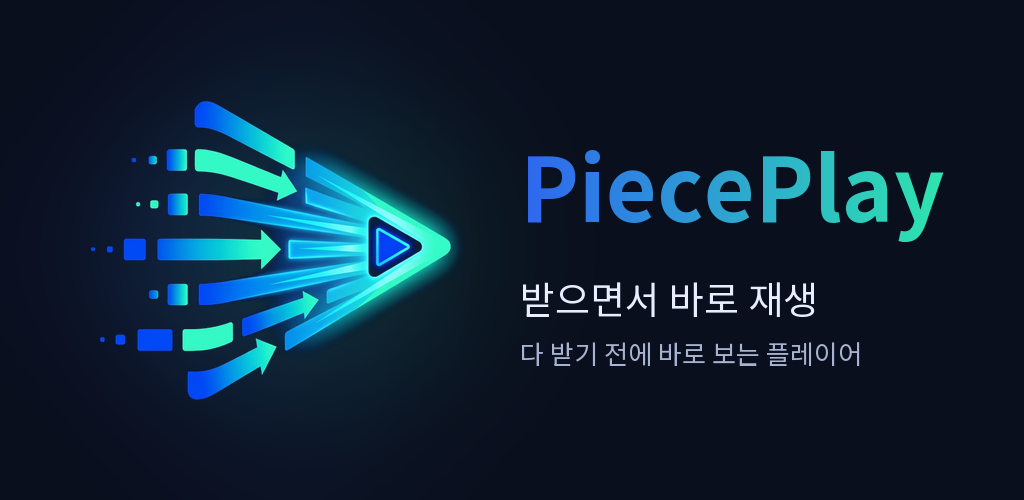
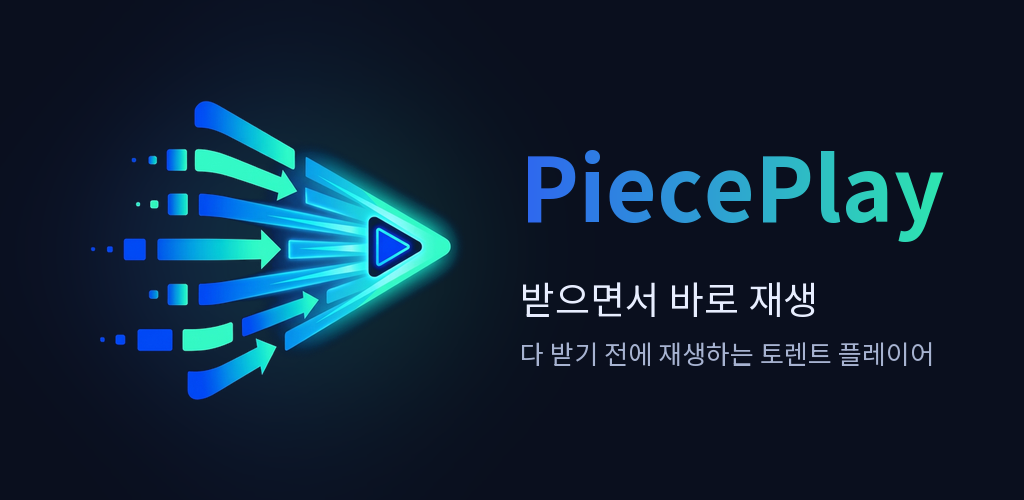
스토어 그래픽: 한국 캡션 휴대전화 스크린샷, 7·10인치 태블릿 스크린샷, 그래픽 이미지 문구 (Refs #119)
- 휴대전화 6장을 marketing/aso/ko-KR.md 6절 캡션으로 다시 생성(4_Play_Store_Screenshots/ko-KR/)
- 7인치(5_Tablet_7in/)·10인치(6_Tablet_10in/) 태블릿 각 6장: 태블릿 AVD에서 main 디버그 빌드 실제 캡처
- 그래픽 이미지 보조 문구 수정, 생성 스크립트 screens.py로 통합
- README에 Play 슬롯별 업로드 파일과 공식 규격 정리

Changed region(s): [[0.625, 0.69, 0.9062, 0.75]]

diff --git a/launch/store-assets/tools/screens.py b/launch/store-assets/tools/screens.py
@@ -1,0 +1,151 @@
+"""Play 스토어 스크린샷 생성 (휴대전화·7인치·10인치 태블릿).
+
+사용: python screens.py <store-assets 폴더> [phone|tab7|tab10 ...]
+필요: Pillow, Windows Noto Sans KR 가변 글꼴(NotoSansKR-VF.ttf)
+
+원본 캡처(raw/)를 브랜드 틀(배경 #0A0F1E, 그라데이션 #2F66F0 -> #2EE6B0)에 넣고
+위에 제목·보조 문구를 얹는다. 캔버스는 9:16 또는 16:9(Play 대화면 규칙)이다.
+문구 기준: marketing/aso/ko-KR.md 6절.
+"""
+import os
+import sys
+
+from PIL import Image, ImageDraw, ImageFilter, ImageFont
+
+BG = (0x0A, 0x0F, 0x1E)
+C1 = (0x2F, 0x66, 0xF0)
+C2 = (0x2E, 0xE6, 0xB0)
+ON = (0xE8, 0xEE, 0xFF)
+SUB = (0xA7, 0xB3, 0xD1)
+OUTL = (0x2A, 0x37, 0x57)
+NOTO = 'C:/Windows/Fonts/NotoSansKR-VF.ttf'
+
+# (제목, 보조) — 화면 키별 캡션
+CAPTIONS = {
+    'main': ('링크를 넣으면 바로 재생', '마그넷 링크나 토렌트 파일 주소만 붙여넣으세요'),
+    'preparing': ('앞부분부터 먼저 받아요', '다 받을 때까지 기다리지 않아도 돼요'),
+    'player_noads': ('재생 중에는 광고 없이', '받은 조각과 재생 위치를 한눈에'),
+    'player_seek': ('이동하면 그 위치부터 받아요', '10초 이동 · 확대 · 축소'),
+    'playlist': ('보던 곳부터 이어보기', '최근 50개를 기기 안에 암호화해 보관'),
+    'stored': ('업로드 없이, 기록은 기기 안에', '받은 파일은 형식별로 보고 바로 삭제'),
+}
+
+# 대상별: 출력 폴더, 원본 폴더, [(출력 파일, 원본 파일, 캡션 키, 캔버스 W, H)]
+TARGETS = {
+    'phone': ('4_Play_Store_Screenshots/ko-KR', '4_Play_Store_Screenshots/raw', [
+        ('01_main.png', 'main.png', 'main', 1080, 1920),
+        ('02_preparing.png', 'preparing.png', 'preparing', 1080, 1920),
+        ('03_player_landscape.png', 'player-landscape.png', 'player_noads', 1920, 1080),
+        ('04_player.png', 'player.png', 'player_seek', 1080, 1920),
+        ('05_playlist.png', 'playlist.png', 'playlist', 1080, 1920),
+        ('06_stored_files.png', 'stored-files.png', 'stored', 1080, 1920),
+    ]),
+    'tab7': ('5_Tablet_7in', '5_Tablet_7in/raw', [
+        ('01_main.png', 'main.png', 'main', 1080, 1920),
+        ('02_preparing.png', 'preparing.png', 'preparing', 1080, 1920),
+        ('03_player_landscape.png', 'player-landscape.png', 'player_noads', 1920, 1080),
+        ('04_player.png', 'player.png', 'player_seek', 1080, 1920),
+        ('05_playlist.png', 'playlist.png', 'playlist', 1080, 1920),
+        ('06_stored_files.png', 'stored-files.png', 'stored', 1080, 1920),
+    ]),
+    'tab10': ('6_Tablet_10in', '6_Tablet_10in/raw', [
+        ('01_main.png', 'main.png', 'main', 2560, 1440),
+        ('02_preparing.png', 'preparing.png', 'preparing', 2560, 1440),
+        ('03_player.png', 'player.png', 'player_noads', 2560, 1440),
+        ('04_player_seek.png', 'player-seek.png', 'player_seek', 2560, 1440),
+        ('05_playlist.png', 'playlist.png', 'playlist', 2560, 1440),
+        ('06_stored_files.png', 'stored-files.png', 'stored', 2560, 1440),
+    ]),
+}
+
+
+def font(size, weight):
+    f = ImageFont.truetype(NOTO, size)
+    f.set_variation_by_axes([weight])
+    return f
+
+
+def background(W, H):
+    img = Image.new('RGB', (W, H), BG)
+    glow = Image.new('RGBA', (W, H), (0, 0, 0, 0))
+    g = ImageDraw.Draw(glow)
+    g.ellipse((-W * 0.3, -H * 0.15, W * 0.7, H * 0.35), fill=C1 + (80,))
+    g.ellipse((W * 0.5, -H * 0.1, W * 1.3, H * 0.3), fill=C2 + (45,))
+    glow = glow.filter(ImageFilter.GaussianBlur(min(W, H) // 6))
+    img.paste(glow, (0, 0), glow)
+    return img
+
+
+def gradient_bar(d, x, y, w, h):
+    for i in range(w):
+        t = i / (w - 1)
+        d.line([(x + i, y), (x + i, y + h)], fill=tuple(int(C1[k] + (C2[k] - C1[k]) * t) for k in range(3)))
+
+
+def fitted_font(d, text, size, weight, max_w):
+    while True:
+        f = font(size, weight)
+        b = d.textbbox((0, 0), text, font=f)
+        if b[2] - b[0] <= max_w or size <= 12:
+            return f
+        size -= 2
+
+
+def centered(d, W, y, text, size, weight, fill, max_w):
+    f = fitted_font(d, text, size, weight, max_w)
+    b = d.textbbox((0, 0), text, font=f)
+    d.text(((W - (b[2] - b[0])) // 2 - b[0], y), text, font=f, fill=fill)
+
+
+def paste_shot(img, src, box, radius):
+    x, y, w, h = box
+    s = Image.open(src).convert('RGB').resize((w, h), Image.LANCZOS)
+    mask = Image.new('L', (w, h), 0)
+    ImageDraw.Draw(mask).rounded_rectangle((0, 0, w - 1, h - 1), radius, fill=255)
+    shadow = Image.new('RGBA', img.size, (0, 0, 0, 0))
+    ImageDraw.Draw(shadow).rounded_rectangle((x - 6, y + 10, x + w + 6, y + h + 22), radius + 6, fill=(0, 0, 0, 150))
+    shadow = shadow.filter(ImageFilter.GaussianBlur(18))
+    img.paste(shadow, (0, 0), shadow)
+    img.paste(s, (x, y), mask)
+    ImageDraw.Draw(img).rounded_rectangle((x - 2, y - 2, x + w + 1, y + h + 1), radius + 2, outline=OUTL, width=3)
+
+
+def compose(src, out, W, H, title, sub):
+    k = min(W, H) / 1080
+    portrait = H > W
+    img = background(W, H)
+    d = ImageDraw.Draw(img)
+    max_w = W - int(120 * k)
+    if portrait:
+        ty, ts, sy, ss, by, top, side, bottom = 92, 68, 192, 36, 262, 320, 48, 40
+    else:
+        ty, ts, sy, ss, by, top, side, bottom = 56, 60, 146, 32, 206, 268, 120, 60
+    centered(d, W, int(ty * k), title, int(ts * k), 700, ON, max_w)
+    centered(d, W, int(sy * k), sub, int(ss * k), 400, SUB, max_w)
+    gradient_bar(d, W // 2 - int(60 * k), int(by * k), int(120 * k), max(4, int(6 * k)))
+    sw, sh = Image.open(src).size
+    box_w, box_h = W - 2 * int(side * k), H - int(top * k) - int(bottom * k)
+    scale = min(box_w / sw, box_h / sh)
+    w, h = round(sw * scale), round(sh * scale)
+    paste_shot(img, src, ((W - w) // 2, int(top * k), w, h), int((44 if portrait else 36) * k))
+    img.save(out)
+
+
+def main():
+    root = sys.argv[1]
+    names = sys.argv[2:] or list(TARGETS)
+    for name in names:
+        out_dir, raw_dir, items = TARGETS[name]
+        os.makedirs(os.path.join(root, out_dir), exist_ok=True)
+        for out, raw, key, W, H in items:
+            src = os.path.join(root, raw_dir, raw)
+            if not os.path.exists(src):
+                print('skip (no raw):', src)
+                continue
+            title, sub = CAPTIONS[key]
+            compose(src, os.path.join(root, out_dir, out), W, H, title, sub)
+            print('wrote', out_dir + '/' + out, W, 'x', H)
+
+
+if __name__ == '__main__':
+    main()

diff --git a/launch/store-assets/tools/feature.py b/launch/store-assets/tools/feature.py
@@ -30,5 +30,5 @@ for i in range(tw):
     ImageDraw.Draw(grad).line([(i,0),(i,th+30)],fill=col)
 ty=150; img.paste(grad,(x,ty),mask)
 d.text((x,ty+th+34),'받으면서 바로 재생',font=fr,fill=(0xE8,0xEE,0xFF))
-d.text((x,ty+th+96),'다 받기 전에 바로 보는 플레이어',font=fs,fill=(0xA7,0xB3,0xD1))
+d.text((x,ty+th+96),'다 받기 전에 재생하는 토렌트 플레이어',font=fs,fill=(0xA7,0xB3,0xD1))
 img.save(out)

diff --git a/launch/store-assets/README.md b/launch/store-assets/README.md
@@ -1,19 +1,55 @@
 # 스토어 자료
 
-디자인 리뉴얼 5단계(#49)에서 새 다크 브랜드 테마(배경 `#0A0F1E`, 그라데이션 `#2F66F0 → #2EE6B0`)로 교체했다.
+디자인 리뉴얼 5단계(#49)에서 다크 브랜드 테마(배경 `#0A0F1E`, 그라데이션 `#2F66F0 → #2EE6B0`)로 바꿨고, 한국 등록정보(#119)에서 캡션을 마케팅 안(`marketing/aso/ko-KR.md` 6절)으로 바꾸고 태블릿 스크린샷을 더했다.
 
-## Play Console에 올리는 파일
+## Play Console 슬롯별 업로드 파일
 
-| Play Console 항목 | 파일 | 크기 |
-|---|---|---|
-| 앱 아이콘 | `1_Play_Store_Assets/app_icon_512x512.png` | 512x512 |
-| 그래픽 이미지 | `1_Play_Store_Assets/feature_graphic_1024x500.png` | 1024x500, 알파 없음 |
-| 휴대전화 스크린샷 | `4_Play_Store_Screenshots/01_main.png` ~ `06_stored_files.png` (6장, 번호 순서) | 1080x1920, `03`만 1920x1080 |
+Play Console > 스토어 등록정보 > 기본 스토어 등록정보(또는 ko-KR 번역) > 그래픽.
 
-- 스크린샷은 Play 규칙(긴 변이 짧은 변의 2배 이하)에 맞춰 1080x1920 틀 안에 실제 화면을 넣은 이미지다. 기기 원본 캡처(1080x2400)는 비율이 2.22:1이라 그대로는 올릴 수 없다.
-- 원본 캡처는 `4_Play_Store_Screenshots/raw/`에 있다. 2026-11-12 main 빌드(v.2026.11.12.002 디버그)를 에뮬레이터(1080x2400, 420dpi)에서 상태 표시줄 데모 모드로 찍었다.
-- 메인·재생 목록·저장 파일 관리는 네트워크를 끈 상태로 앱을 다시 열어 찍었다. 디버그 빌드의 테스트 광고 배너가 들어가지 않게 하려는 것이다(릴리스 빌드에서는 이 두 화면 하단에 배너가 나온다).
-- 준비 화면 캡처(`raw/preparing.png`)는 상태 표시줄 영역(위 63px)만 같은 세션의 다른 캡처로 바꿨다. 앱 화면은 손대지 않았다.
+| Play 슬롯 | 올릴 파일 (번호 순서대로) | 크기 | 규격(공식) | 상태 |
+|---|---|---|---|---|
+| 앱 아이콘 | `1_Play_Store_Assets/app_icon_512x512.png` | 512x512 PNG | 512x512, 32비트 PNG, 1MB 이하, 필수 | 기존 그대로 |
+| 그래픽 이미지 | `1_Play_Store_Assets/feature_graphic_1024x500.png` | 1024x500 PNG, 알파 없음 | 1024x500, JPEG 또는 24비트 PNG(알파 없음), 필수 | 보조 문구 수정 |
+| 휴대전화 스크린샷 | `4_Play_Store_Screenshots/ko-KR/01_main.png` ~ `06_stored_files.png` (6장) | 1080x1920, `03`만 1920x1080 | 2~8장, 변 320~3840px, 긴 변 ≤ 짧은 변 x2, 추천 노출은 1080px 이상 4장 이상 | 캡션 새로 |
+| 7인치 태블릿 스크린샷 | `5_Tablet_7in/01_main.png` ~ `06_stored_files.png` (6장) | 1080x1920, `03`만 1920x1080 | 대화면: 변 1080~7680px, 9:16 또는 16:9, 4장 이상, 선택 | 새로 |
+| 10인치 태블릿 스크린샷 | `6_Tablet_10in/01_main.png` ~ `06_stored_files.png` (6장) | 2560x1440 | 위와 같음 | 새로 |
+| Chromebook 스크린샷 | 없음 | | 위와 같음, 선택 | 비워 둠 |
+
+규격 출처: [Play Console 고객센터 "미리보기 애셋 추가"](https://support.google.com/googleplay/android-developer/answer/9866151?hl=ko) (2026-11-12 확인). 그 밖의 요구: 실제 앱 화면을 보여 줄 것, "지금 다운로드" 같은 행동 유도 문구 금지, 문구가 이미지의 20%를 넘지 않을 것, 각 애셋에 140자 이하 대체 텍스트 권장.
+
+- 출시 국가가 대한민국 하나이고 기본 언어 등록정보를 한국어로 쓰면 기본 등록정보에 올린다. 영어 등 다른 기본 언어 아래 ko-KR 번역을 두는 경우에는 ko-KR 번역의 그래픽에 올린다.
+- Chromebook은 비워 둔다. 태블릿 이미지를 그대로 올려도 규격에는 맞지만, Chromebook에서 앱을 확인하지 않았다.
+- 예전 휴대전화 스크린샷(`4_Play_Store_Screenshots/01~06`, #49 캡션)은 지웠다. 이미 Console에 올라가 있으면 `ko-KR/`로 바꾼다.
+
+## 캡션
+
+`marketing/aso/ko-KR.md` 6절 안을 따랐다. 보조 문구는 `marketing:content-creation`으로 쓰고 `marketing:brand-review`, `design:ux-copy`로 점검했다(금지 표현 없음, 앱에 없는 기능 없음).
+
+| 순서 | 화면 | 제목 | 보조 |
+|---|---|---|---|
+| 1 | 메인 | 링크를 넣으면 바로 재생 | 마그넷 링크나 토렌트 파일 주소만 붙여넣으세요 |
+| 2 | 준비 | 앞부분부터 먼저 받아요 | 다 받을 때까지 기다리지 않아도 돼요 |
+| 3 | 재생(가로) | 재생 중에는 광고 없이 | 받은 조각과 재생 위치를 한눈에 |
+| 4 | 재생(세로, 10인치는 이동 직후) | 이동하면 그 위치부터 받아요 | 10초 이동 · 확대 · 축소 |
+| 5 | 재생 목록 | 보던 곳부터 이어보기 | 최근 50개를 기기 안에 암호화해 보관 |
+| 6 | 저장 파일 관리 | 업로드 없이, 기록은 기기 안에 | 받은 파일은 형식별로 보고 바로 삭제 |
+
+- 예전 4번 보조 문구 "10초 이동 · 확대 · 배속 조절"의 배속 조절은 앱에 없는 기능이라 뺐다.
+- 3번 "재생 중에는 광고 없이"는 사실이다(배너는 메인·재생 목록, 전면 광고는 재생 종료·완료 때만). 광고 정책이 바뀌면 이 캡션도 바꿔야 한다. 이 표현을 쓸지는 `marketing/aso/ko-KR.md` "결정 필요" 2번으로 PM이 정한다.
+- 그래픽 이미지: "받으면서 바로 재생" / "다 받기 전에 재생하는 토렌트 플레이어". 앱 이름 `PiecePlay - 토렌트 플레이어`와 같은 키워드를 쓰고, "바로"가 두 줄에 겹치던 것을 고쳤다.
+
+## 원본 캡처
+
+| 폴더 | 기기 | 빌드 | 비고 |
+|---|---|---|---|
+| `4_Play_Store_Screenshots/raw/` | emulator-5554, 1080x2400 420dpi | v.2026.11.12.002 디버그 (#49) | 이번에 다시 찍지 않았다 |
+| `5_Tablet_7in/raw/` | AVD `Tablet_7in`(Nexus 7 2013 규격), 1200x1920 320dpi, Android 37 | v.2026.11.12.003 디버그 (main 5c8c305) | 세로, 재생만 가로 하나 |
+| `6_Tablet_10in/raw/` | AVD `Tablet_10in`(Nexus 10 규격), 2560x1600(가로) 320dpi, Android 37 | 같음 | 모두 가로 |
+
+- 상태 표시줄은 데모 모드(12:00, 와이파이·배터리 가득, 알림 숨김)로 찍었다.
+- 메인·재생 목록·저장 파일 관리는 와이파이·데이터를 끄고 앱을 다시 열어 찍었다. 디버그 빌드의 테스트 광고 배너가 들어가지 않게 하려는 것이다(릴리스 빌드에서는 메인·재생 목록 하단에 배너가 나온다).
+- 저장 파일 관리는 `.mp4` 필터를 고른 상태다.
+- 휴대전화 원본의 메인 화면은 #49 때 빌드라 지금 메인 하단의 "이용 안내 · 개인정보처리방침 · 오픈소스 라이선스" 줄이 없다. 저장 파일 관리의 `Sintel.2010.720p.mp4`는 그때 에뮬레이터에 남아 있던 테스트 파일이다.
 
 ## 아이콘
 
@@ -21,11 +57,11 @@
 
 ## 화면 속 영상
 
-재생·목록 화면의 영상은 Blender Foundation의 오픈 무비다(Sintel, Big Buck Bunny, Tears of Steel, Cosmos Laundromat). 모두 CC BY 라이선스(© Blender Foundation, blender.org)이며, 스토어 설명에 출처 문구를 넣을지는 등록정보 작업 때 정한다.
+재생·목록 화면의 영상은 Blender Foundation의 오픈 무비다(Sintel, Big Buck Bunny, Tears of Steel, Cosmos Laundromat). 모두 CC BY 라이선스(© Blender Foundation, blender.org)다. 자세한 설명 끝에 출처 문구를 넣는다(`marketing/aso/ko-KR.md` 5절 안 A).
 
 ## 다시 만들기
 
-`tools/`의 스크립트(Python + Pillow, Windows의 Noto Sans KR 가변 글꼴 `NotoSansKR-VF.ttf`. 맑은 고딕은 작은 크기에서 "받"이 깨져 쓰지 않는다)로 만들었다.
+`tools/`의 스크립트(Python + Pillow, Windows의 Noto Sans KR 가변 글꼴 `NotoSansKR-VF.ttf`. 맑은 고딕은 작은 크기에서 "받"이 깨져 쓰지 않는다)로 만든다. Pillow가 없으면 `uv run --no-project --with pillow python ...`로 실행한다.
 
-- `feature.py <적응형 아이콘 전경 png> <출력>`: 그래픽 이미지
-- `compose.py <작업 폴더> <출력 폴더>`: 작업 폴더의 `final/` 아래 원본 캡처(`01_main.png`, `02_preparing.png`, `player_landscape.png`, `player_portrait.png`, `02_playlist.png`, `03_stored_files.png`)로 스크린샷 6장을 만든다. 문구는 스크립트 안에 있다.
+- `screens.py <store-assets 폴더> [phone|tab7|tab10]`: 각 `raw/` 원본으로 휴대전화·7인치·10인치 스크린샷을 만든다. 캡션과 파일 대응은 스크립트 위쪽 `CAPTIONS`, `TARGETS`에 있다. 원본은 비율을 유지한 채 틀 안에 맞춘다.
+- `feature.py <적응형 아이콘 전경 png> <출력>`: 그래픽 이미지(`2_Android_Adaptive_Icon/ic_launcher_foreground.png` 사용)
